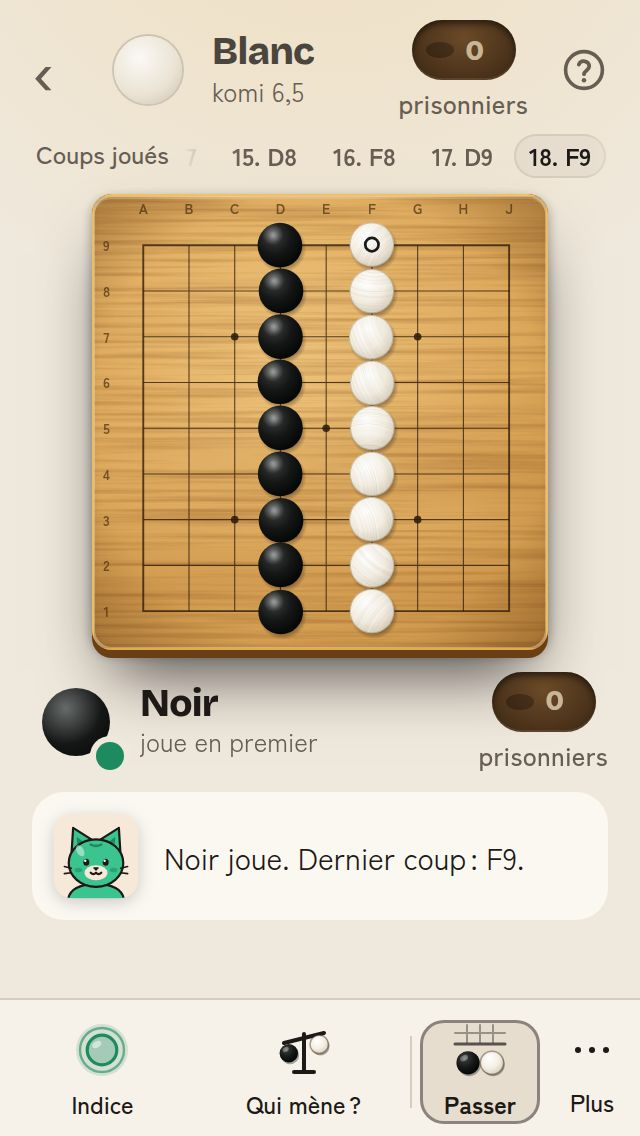
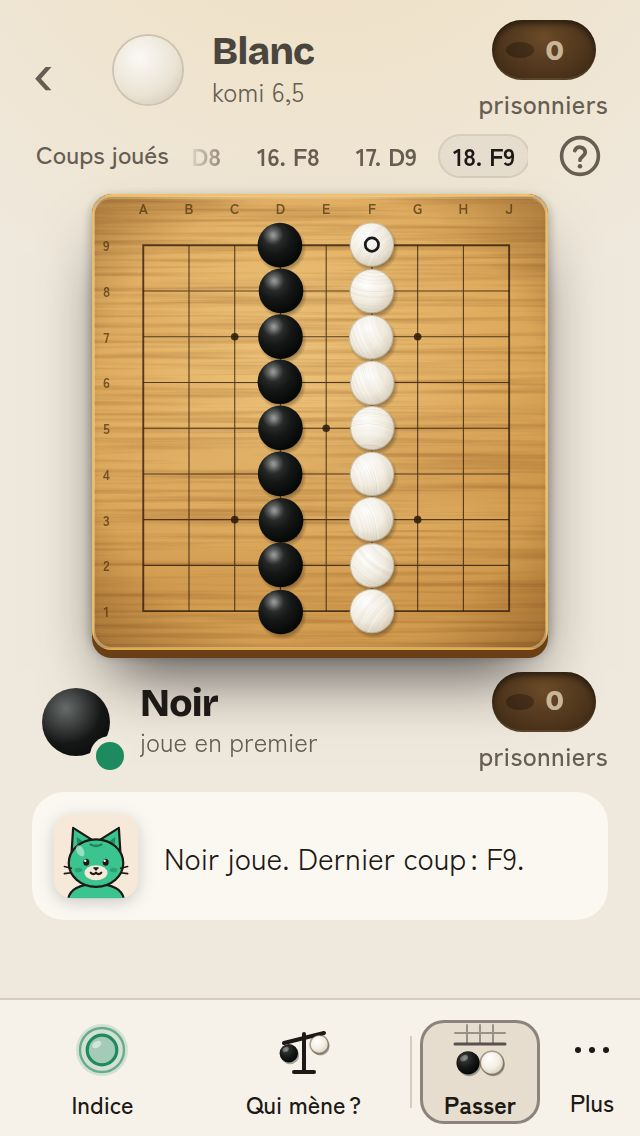
#362 Aide : le « ? » de la partie passe au bout du ruban des coups (réplique de Pomme entière, plateau immobile)
Claude-Session: https://claude.ai/code/session_01MBh4E5pGWe9HRzjpTV2rVx

Changed region(s): [[0.5312, 0.0, 0.9375, 0.154], [0.3125, 0.1232, 0.5, 0.154]]

diff --git a/src/ui/partie.css b/src/ui/partie.css
@@ -40,10 +40,6 @@
 .joueur .retour { flex: none; width: var(--cible-min); height: var(--cible-min); margin: 0 -6px 0 -12px; border: 0; background: none; color: var(--muted);
   font-size: 30px; line-height: 1; display: grid; place-items: center; border-radius: 12px; }
 .joueur .retour:active { background: var(--surface); }
-/* #362 : le « ? » de l'aide ferme le bandeau du haut, collé au bord comme « ‹ » de l'autre côté. */
-.joueur .joueur-aide { margin: 0 -10px 0 -4px; }
-/* Zoom 200 % (195 px) : pas la place sur la ligne ; le « ? » passe dessous, à droite, plutôt que de faire défiler l'écran de côté. */
-@media (max-width: 299px) { .joueur:has(.joueur-aide) { flex-wrap: wrap; row-gap: 0; } .joueur .joueur-aide { margin: -6px -10px 0 auto; } }
 .portrait { position: relative; flex: none; width: 44px; height: 44px; display: grid; place-items: center; }
 .portrait .stone { width: 34px; height: 34px; }
 /* Au trait : un point jade posé sur le portrait (lisible quelle que soit la forme du portrait, sceau ou pierre).
@@ -94,6 +90,12 @@
 .coups-ruban { display: flex; align-items: center; gap: var(--space-2); margin: -2px 2px 6px; min-height: 26px; }
 .coups-titre { flex: none; color: var(--muted); font-size: var(--fs-xs); font-weight: var(--fw-medium); }
 .coups-ruban:has(.vide) .coups-titre { display: none; }
+/* #362 : le « ? » de l'aide au bout du ruban. Cible de 44 px, mais marges négatives : le ruban garde ses 26 px,
+   le plateau ne bouge pas et le bandeau de l'adversaire garde toute sa largeur. */
+.coups-ruban .ruban-aide { margin: -9px -10px -9px -4px; }
+.coups-ruban:has(.ruban-aide) .coups { margin-right: 0; padding-right: 0;
+  -webkit-mask-image: linear-gradient(to right, transparent 0, #000 28px); mask-image: linear-gradient(to right, transparent 0, #000 28px); }
+.coups-ruban:has(.ruban-aide) .coups:has(> .vide) { -webkit-mask-image: none; mask-image: none; }
 .coups { flex: 1; min-width: 0; list-style: none; margin: 0 calc(-1 * var(--gouttiere)) 0 0; padding: 2px var(--gouttiere) 2px 0; display: flex; gap: 4px; overflow-x: auto; scrollbar-width: none;
   white-space: nowrap; color: var(--muted); font-size: var(--fs-xs); font-weight: var(--fw-bold); font-variant-numeric: tabular-nums;
   /* Les coups anciens s'effacent vers la gauche, et le bord droit se fond dans la gouttière. */

diff --git a/src/ui/Partie.tsx b/src/ui/Partie.tsx
@@ -33,14 +33,12 @@ interface BandeauProps {
   pierresPrises: 'noir' | 'blanc';
   replique?: { texte: string; n: number } | null;
   avant?: ReactNode;
-  /** Après le couvercle (#362) : le « ? » de l'aide, dans le bandeau du haut. */
-  apres?: ReactNode;
   /** Pierres que ce joueur vient de prendre (#187) : un « +N » monte depuis le couvercle. `k` relance l'animation. */
   gain?: { n: number; k: number } | null;
 }
 
 /** Bandeau d'un joueur : portrait, nom, rang, réplique éventuelle et couvercle. */
-export function Bandeau({ nom, sousTitre, portrait, actif, captures, pierresPrises, replique, avant, apres, gain }: BandeauProps) {
+export function Bandeau({ nom, sousTitre, portrait, actif, captures, pierresPrises, replique, avant, gain }: BandeauProps) {
   return (
     <div className={`joueur${actif ? ' active' : ''}`} data-joueur={nom}>
       {avant}
@@ -58,7 +56,6 @@ export function Bandeau({ nom, sousTitre, portrait, actif, captures, pierresPris
         {/* Décoratif : la phrase de Mochi dit déjà combien de pierres tu as prises. */}
         {gain && <span key={gain.k} className="gain-capture" aria-hidden="true">+{gain.n}</span>}
       </span>
-      {apres}
     </div>
   );
 }
@@ -73,7 +70,8 @@ export function Avatar({ initiale, couleur }: { initiale?: string; couleur: 1 | 
  * Liste des coups qui défile horizontalement. En partie, elle suit le dernier coup ;
  * en relecture, `courant` (index dans `coups`, -1 : aucun) désigne le coup affiché, gardé au centre.
  */
-export function ListeCoups({ coups, courant = coups.length - 1 }: { coups: string[]; courant?: number }) {
+/** `apres` (#362) : le « ? » de l'aide, au bout du ruban ; il ne prend rien au bandeau de l'adversaire (sa réplique reste entière). */
+export function ListeCoups({ coups, courant = coups.length - 1, apres }: { coups: string[]; courant?: number; apres?: ReactNode }) {
   const ref = useRef<HTMLOListElement>(null);
   useLayoutEffect(() => {
     const el = ref.current;
@@ -91,6 +89,7 @@ export function ListeCoups({ coups, courant = coups.length - 1 }: { coups: strin
           <li key={i} aria-current={i === courant ? 'step' : undefined}>{m}</li>
         ))}
       </ol>
+      {apres}
     </div>
   );
 }

diff --git a/src/app/Game.tsx b/src/app/Game.tsx
@@ -474,9 +474,7 @@ export function Game({ size, komi, confirmTouch, onExit, opponent: ai, intro, on
         portrait={c === 2 && ai && guidee ? <PortraitMochi taille={44} decoratif />
           : c === 2 && ai ? <Portrait id={ai.id} taille={44} humeur={humeur.h} decoratif signature={false} />
           : c === 2 && portrait ? portrait : <Avatar couleur={c} initiale={initiale} />}
-        replique={c === 2 ? replique : null} avant={c === 2 ? retour : undefined} gain={gain}
-        // #362 : « ? » en haut à droite, sans quitter la partie ; pendant le comptage, il ouvre « Compter ».
-        apres={c === 2 && phase !== 'end' ? <BoutonAide depuis="partie" fiche={phase === 'score' ? 'compter' : 'regles'} className="joueur-aide" /> : undefined} />
+        replique={c === 2 ? replique : null} avant={c === 2 ? retour : undefined} gain={gain} />
     );
   };
 
@@ -596,7 +594,8 @@ export function Game({ size, komi, confirmTouch, onExit, opponent: ai, intro, on
   return (
     <div className="partie">
       {bandeau(2)}
-      <ListeCoups coups={coups} />
+      {/* #362 : « ? » au bout du ruban des coups, sans quitter la partie ; pendant le comptage, il ouvre « Compter ». */}
+      <ListeCoups coups={coups} apres={<BoutonAide depuis="partie" fiche={phase === 'score' ? 'compter' : 'regles'} className="ruban-aide" />} />
       {ai && avantage && (!estimationKo || phase === 'score') && <BarreAvantage libelle={lead === null ? '' : libelleAvantage(lead)} part={lead === null ? 0.5 : partNoir(lead, size)} titre={phase === 'score' ? tr('partie.scoreCompte') : undefined} />}
       <div className="partie-plateau">
         <Board size={size} board={pos.board} toPlay={pos.toPlay} interactive={phase === 'score' || myTurn} stonesTappable={phase === 'score'} confirmTouch={confirmTouch}
